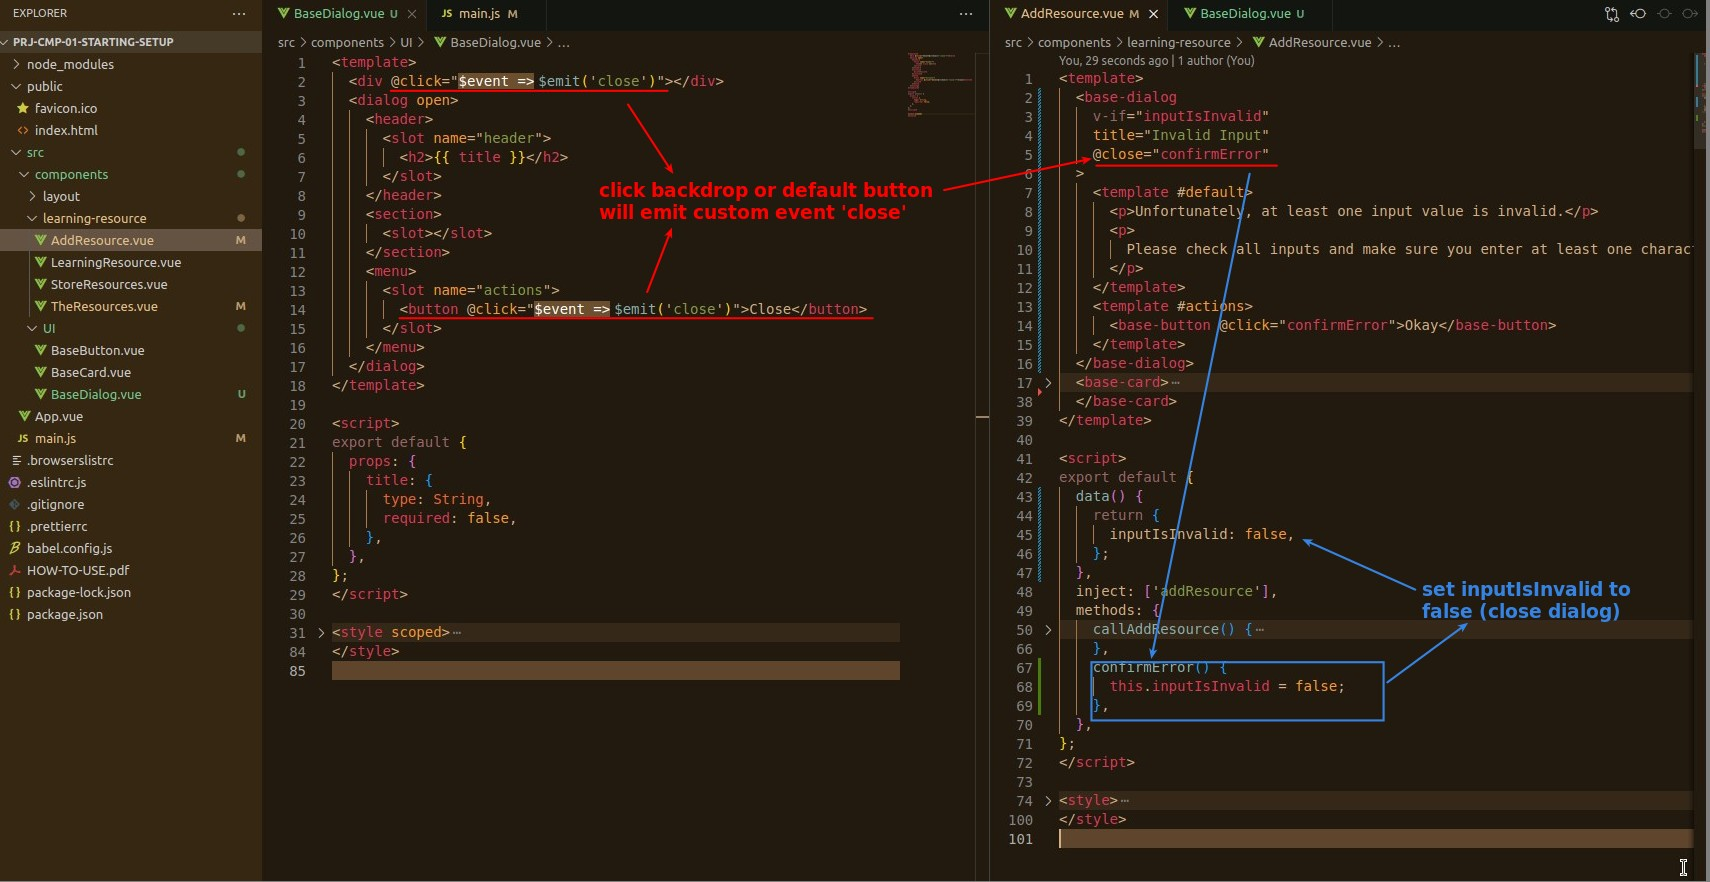
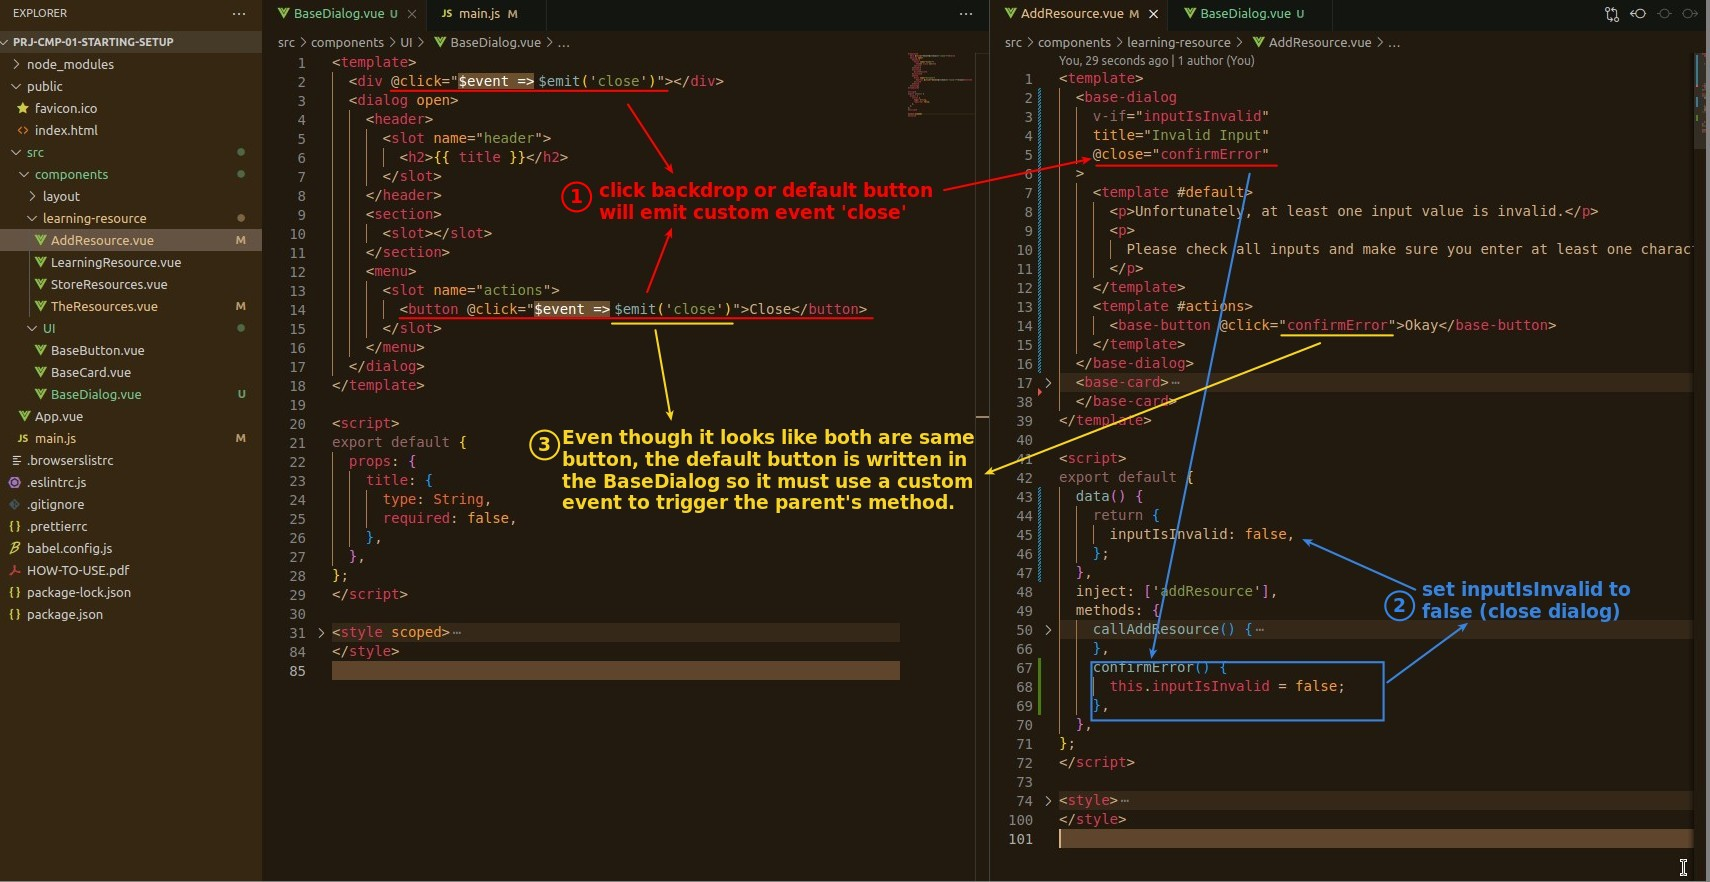
qqq

diff --git a/10-proj-resources-app/136-modal-dialog/memo.md b/10-proj-resources-app/136-modal-dialog/memo.md
@@ -6,9 +6,18 @@
 
 ## **New UI Component: BaseDialog**
 
+> Default alert has no styling, so we want to create our custom alert with new component.
+
 ![Alt create BaseDialog component](pic/03.jpg)
 
+- We intentionally built a very flexible UI component, even though in this case it is only used as an Error Alert.
+  - It is very suitable to build very flexible, very generic components in large project, it can save lots of manpower.
+
 ![Alt backdrop and styling](pic/04.jpg)
+
+- The styling of the backdrop part is very important, there is a fixed format to work.
+- The backdrop is part of the BaseDialog in this case.
+  - You can also split it into another component if you think the codes are already too many.
 
 ## **Setup Data aspect**
 
@@ -23,3 +32,5 @@
 ## **More Ways to Close Alert**
 
 ![Alt use custom event to trigger parent method](pic/08.jpg)
+
+- Be careful with the button part, it is very counter intuitive.
